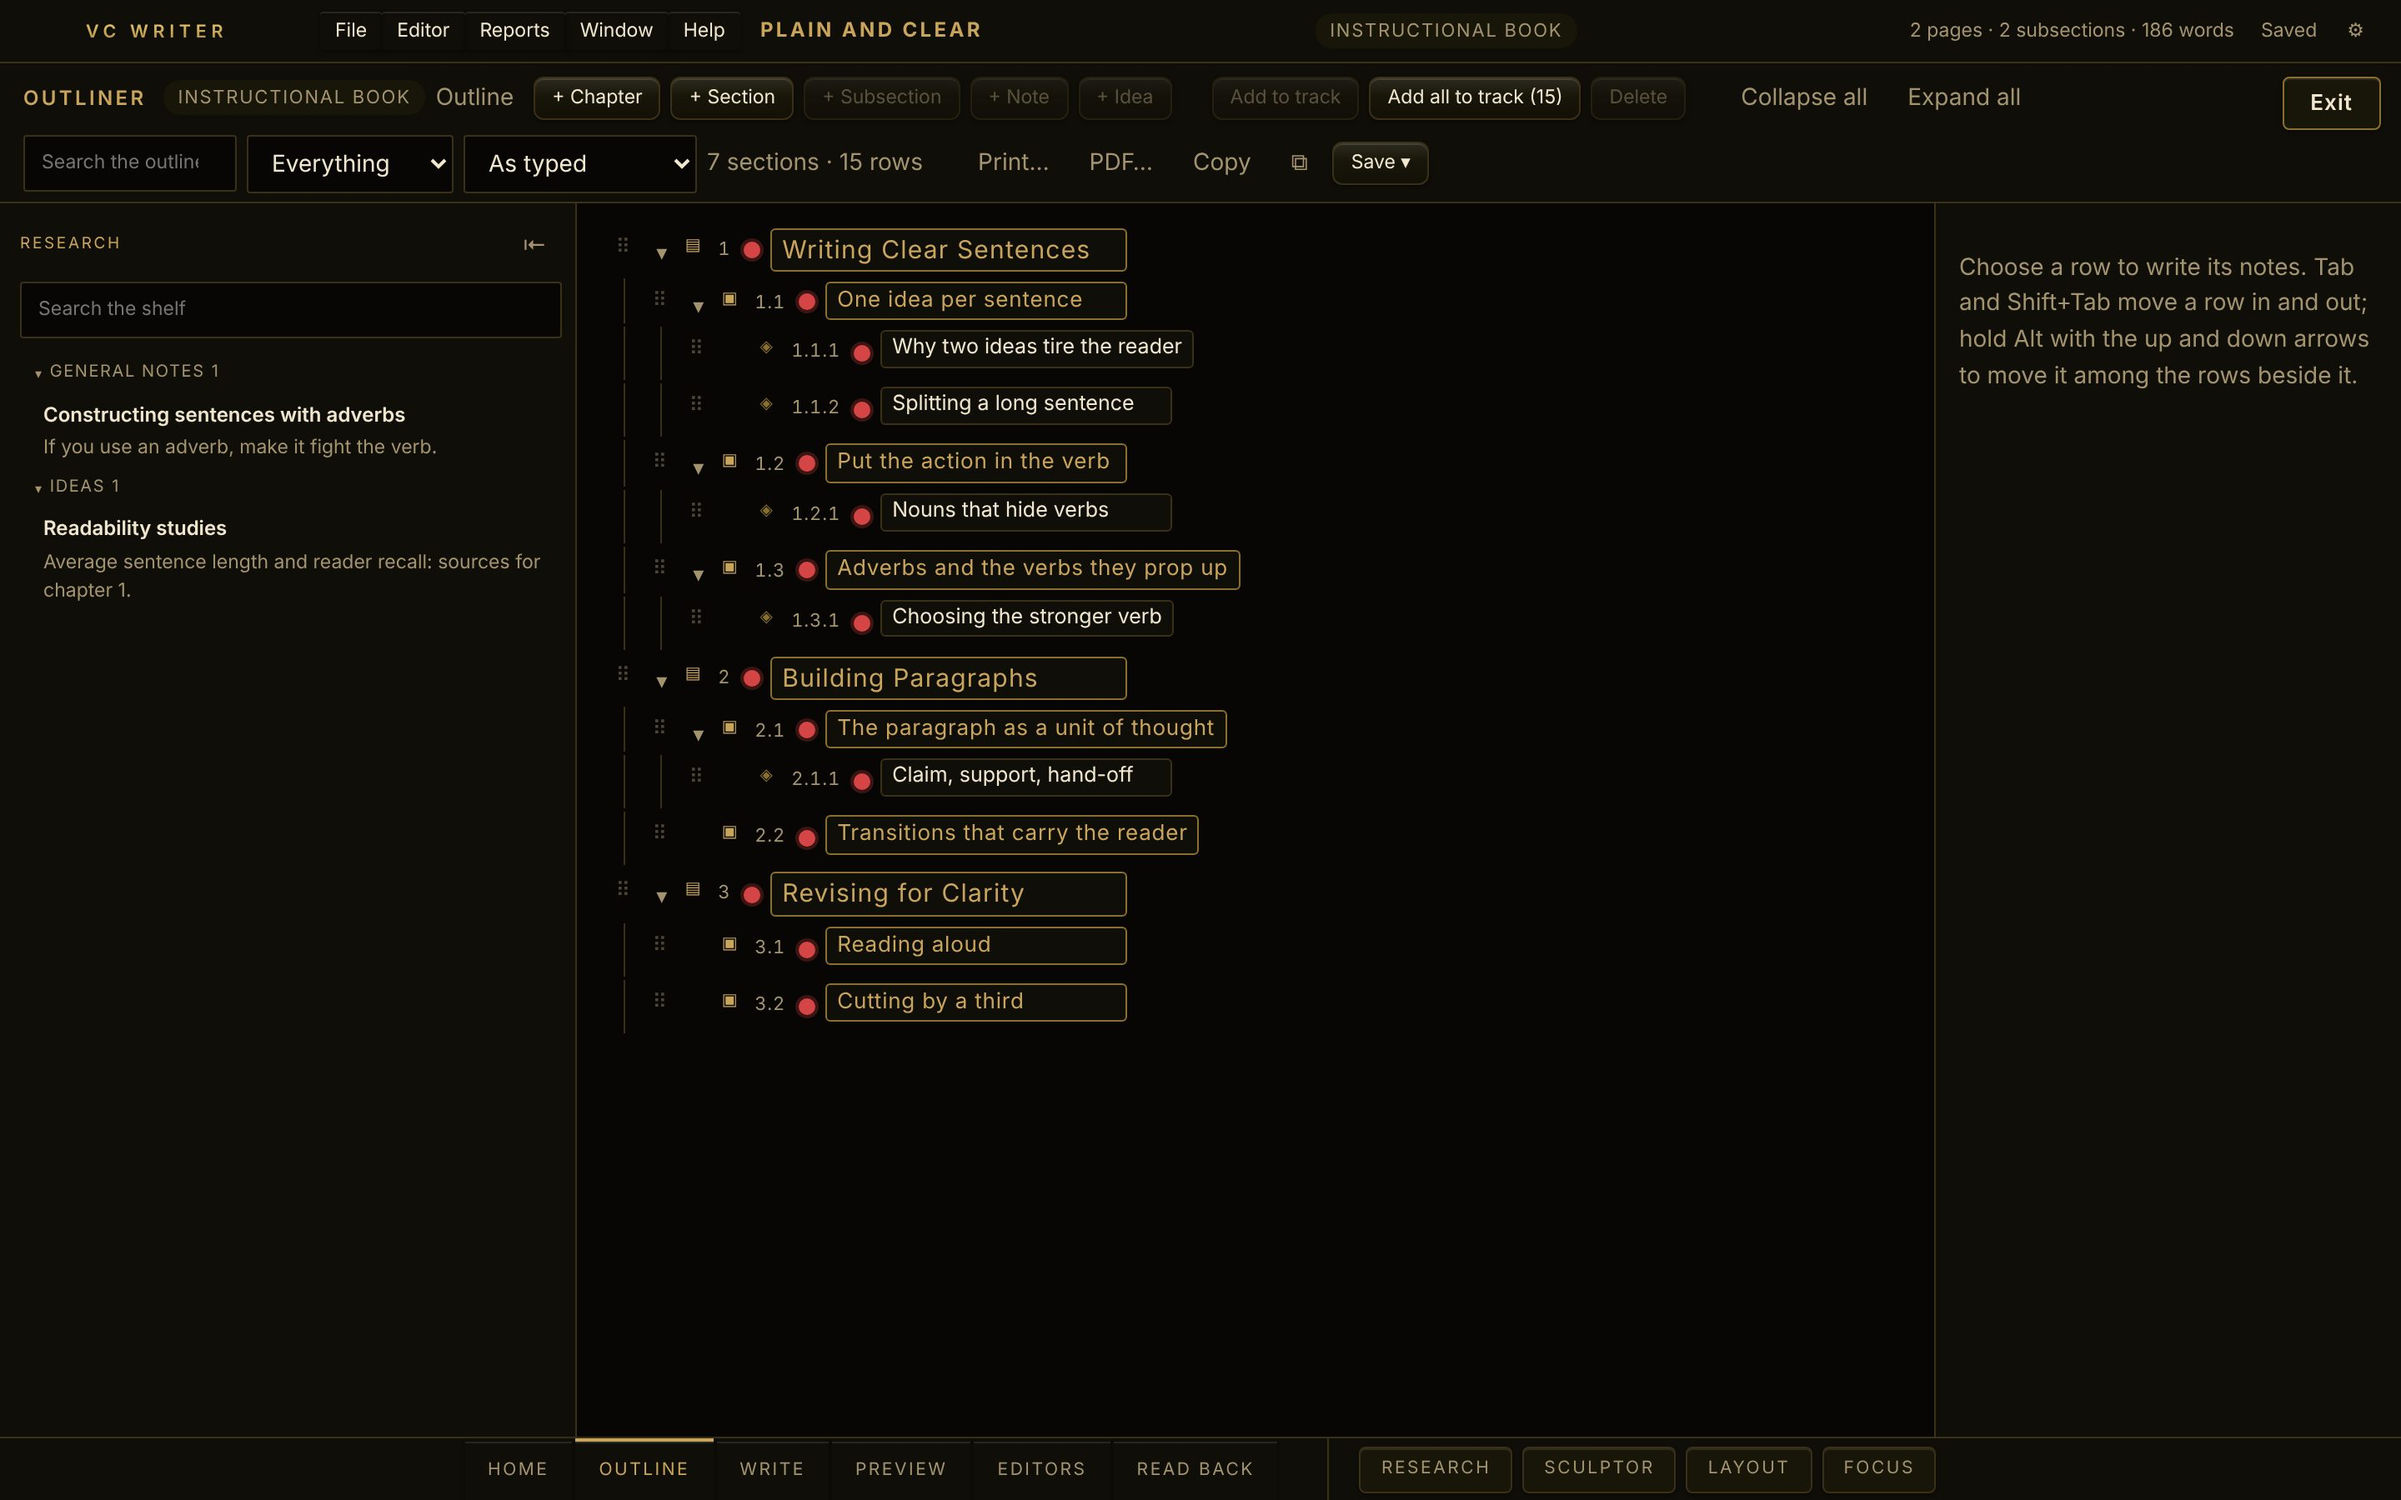
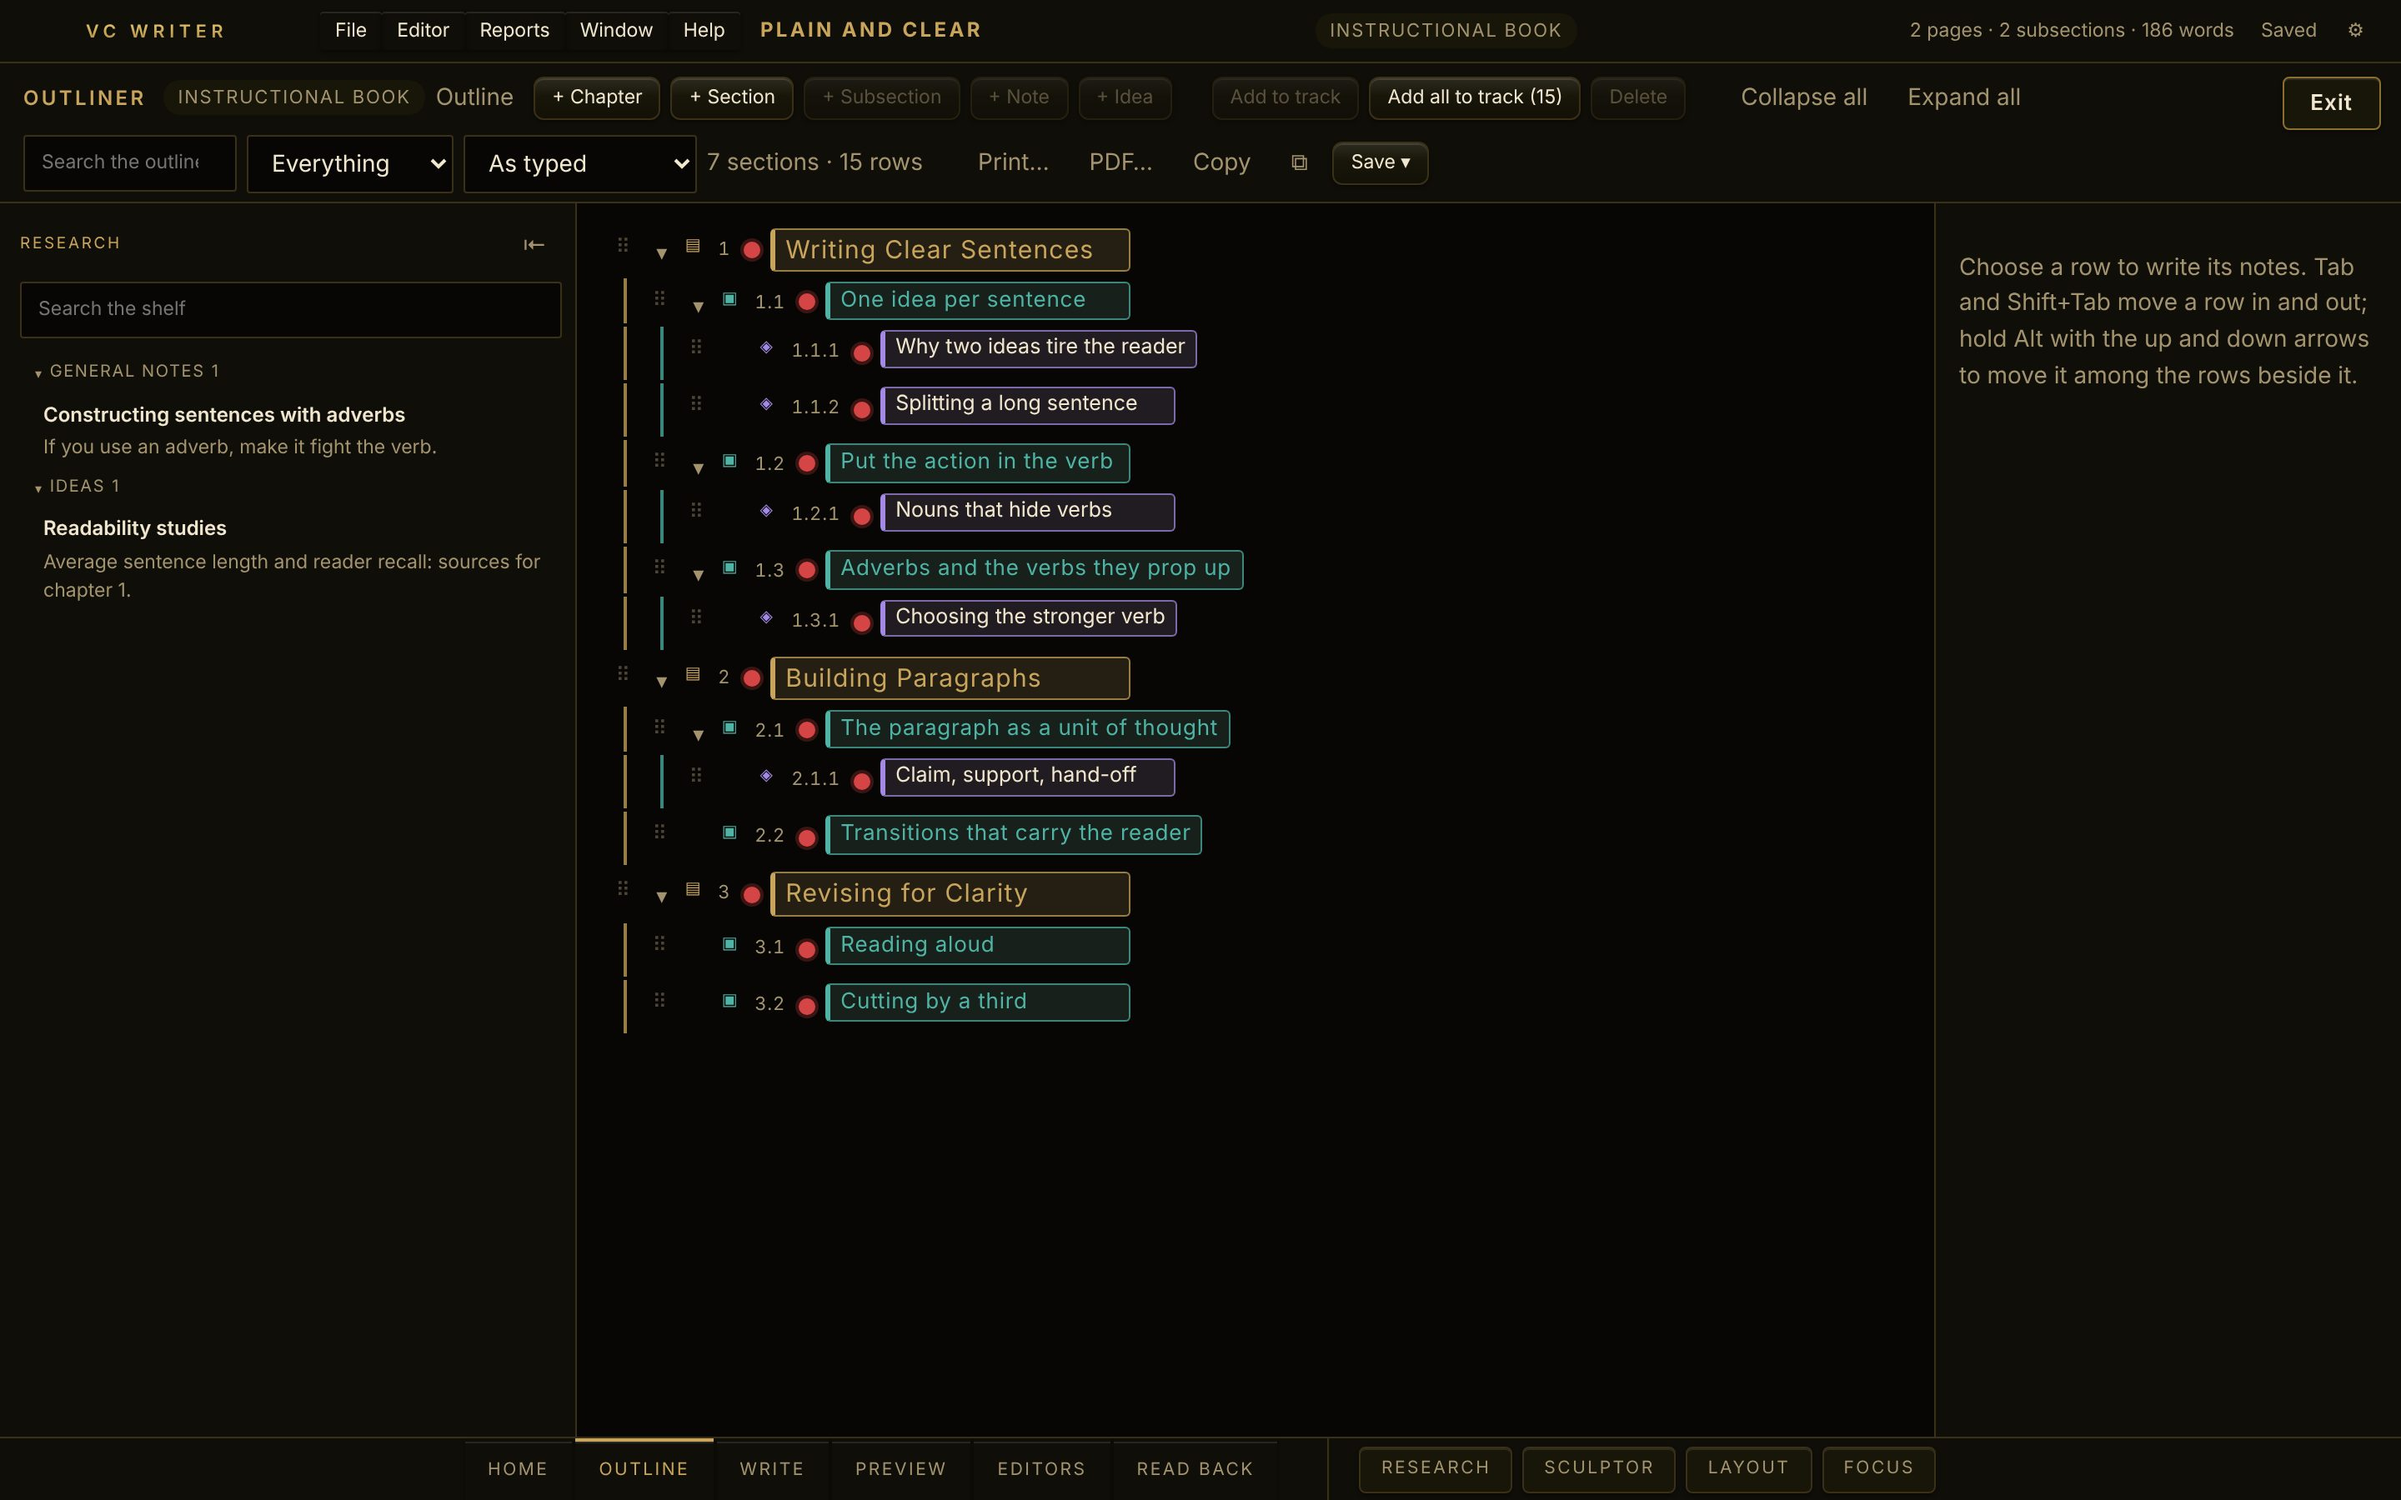
Outliner and Research outline: each tier its own colour, boxed and railed
Chapters gold, sections teal, subsections violet, notes grey, in the
Outliner and in Research's outline column. Every row's box takes its
tier's colour, and the guide at each level takes the colour of the row it
hangs from, so a chapter's rail runs down beside everything inside it.
Folding (per row, and Collapse all / Expand all) was already in both
places. The outline and research shots are retaken.

Claude-Session: https://claude.ai/code/session_01HufyX56kuynopRgv2CJ1Ch

Changed region(s): [[0.3125, 0.1556, 0.5312, 0.6844]]

diff --git a/apps/desktop/src/renderer/workspace.css b/apps/desktop/src/renderer/workspace.css
@@ -23218,3 +23218,114 @@ input.note-rewrite-title:focus { border-color: var(--gold); outline: none; }
 :is(.sheet-paper, .page-sheet).run-on .element-paragraph + .element-paragraph {
   margin-top: 0;
 }
+
+/* ------------------------------------------------------- outline tiers */
+
+/* Each tier of the outline its own colour, with a box around it (from Ken:
+   *the chapters a different colour than the sections — each tier has a
+   different colour, box around it, so you can easily see what is where*).
+   Chapters keep the program's gold; sections (a script's scenes) are teal;
+   subsections (beats) violet; notes, ideas and the rest a quiet grey. The
+   same four colours in the Outliner and in Research's outline column.
+
+   The guide at each level takes the colour of the row it hangs from, so a
+   chapter's rail runs down beside everything inside it: the row's box and
+   its rail together are the box around the group. */
+:root {
+  --tier-chapter: #c9a45c;
+  --tier-scene: #4fb3a5;
+  --tier-beat: #a48ae6;
+  --tier-other: #8a8070;
+}
+
+.outline-row { --tier: var(--tier-other); }
+.outline-row.kind-chapter { --tier: var(--tier-chapter); }
+.outline-row.kind-scene { --tier: var(--tier-scene); }
+.outline-row.kind-beat { --tier: var(--tier-beat); }
+
+.outline-row .outline-box,
+.outline-row.kind-chapter .outline-box,
+.outline-row.kind-scene .outline-box {
+  border-color: color-mix(in srgb, var(--tier) 70%, transparent);
+  border-left: 3px solid var(--tier);
+  background: color-mix(in srgb, var(--tier) 11%, var(--panel));
+}
+
+.outline-row:hover .outline-box {
+  background: color-mix(in srgb, var(--tier) 18%, var(--panel-2));
+}
+
+.outline-row.selected .outline-box {
+  border-color: var(--tier);
+  background: color-mix(in srgb, var(--tier) 20%, var(--panel-2));
+  box-shadow: 0 0 0 1px var(--tier);
+}
+
+.outline-row.kind-chapter .outline-ink,
+.outline-row.kind-chapter .outline-title,
+.outline-row.kind-chapter .outline-read,
+.outline-row.kind-chapter .outline-mark {
+  color: var(--tier-chapter);
+}
+
+.outline-row.kind-scene .outline-ink,
+.outline-row.kind-scene .outline-title,
+.outline-row.kind-scene .outline-read,
+.outline-row.kind-scene .outline-mark {
+  color: var(--tier-scene);
+}
+
+.outline-row.kind-beat .outline-mark {
+  color: var(--tier-beat);
+}
+
+.outline-guide.tier-chapter {
+  width: 2px;
+  background: color-mix(in srgb, var(--tier-chapter) 75%, transparent);
+}
+
+.outline-guide.tier-scene {
+  width: 2px;
+  background: color-mix(in srgb, var(--tier-scene) 75%, transparent);
+}
+
+.outline-guide.tier-beat {
+  width: 2px;
+  background: color-mix(in srgb, var(--tier-beat) 70%, transparent);
+}
+
+/* Research's outline column, the same tiers. */
+.research-outline-folder { --tier: var(--tier-other); }
+.research-outline-folder.kind-chapter { --tier: var(--tier-chapter); }
+.research-outline-folder.kind-section { --tier: var(--tier-scene); }
+.research-outline-folder.kind-subsection { --tier: var(--tier-beat); }
+
+.research-outline-folder > .research-outline-row {
+  box-shadow: inset 3px 0 0 var(--tier);
+  background: color-mix(in srgb, var(--tier) 10%, transparent);
+  border-color: color-mix(in srgb, var(--tier) 35%, transparent);
+  border-style: solid;
+}
+
+.research-outline-folder > .research-outline-row.droppable {
+  border-style: dashed;
+  border-color: color-mix(in srgb, var(--gold-deep) 55%, transparent);
+}
+
+.research-outline-folder > .research-outline-row.over {
+  border-color: var(--gold);
+  border-style: solid;
+  background: color-mix(in srgb, var(--gold) 14%, transparent);
+}
+
+.research-outline-folder > .research-outline-row .research-outline-mark,
+.kind-chapter > .research-outline-row .research-outline-title,
+.kind-section > .research-outline-row .research-outline-title {
+  color: var(--tier);
+}
+
+/* A folder's notes sit inside its tier, on a rail of its colour. */
+.research-outline-folder > .research-outline-notes {
+  border-left: 2px solid color-mix(in srgb, var(--tier) 55%, transparent);
+  margin-left: 14px;
+}

diff --git a/apps/desktop/src/renderer/components/OutlinerWindow.tsx b/apps/desktop/src/renderer/components/OutlinerWindow.tsx
@@ -376,6 +376,25 @@ export function OutlinerWindow({
   );
   const tally = useMemo(() => (outline ? outlineTally(outline) : null), [outline]);
   /**
+   * Each row's ancestors' kinds, outermost first, so the guide at each level
+   * can take the colour of the row it hangs from (from Ken: *each tier has a
+   * different colour, a box around it, so you can easily see what is where*).
+   */
+  const lineage = useMemo(() => {
+    const byId = new Map((outline?.items ?? []).map((one) => [one.id as string, one]));
+    const out = new Map<string, string[]>();
+    for (const one of outline?.items ?? []) {
+      const kinds: string[] = [];
+      let at = one.parentId ? byId.get(one.parentId as string) : undefined;
+      while (at) {
+        kinds.unshift(at.kind);
+        at = at.parentId ? byId.get(at.parentId as string) : undefined;
+      }
+      out.set(one.id as string, kinds);
+    }
+    return out;
+  }, [outline]);
+  /**
    * The decimal numbers down the outline (addendum 16 §15).
    *
    * Read from the tree every time, so indenting a row makes it 1.2.1 with
@@ -1078,6 +1097,7 @@ export function OutlinerWindow({
               format={file.project.format}
               key={row.item.id as string}
               row={row}
+              lineage={lineage.get(row.item.id as string) ?? []}
               number={numbers.get(row.item.id as string) ?? ''}
               title={rowTitle(file, row.item)}
               linked={row.item.source?.type === 'research_item'}
@@ -1688,6 +1708,7 @@ const chainOf = (outline: Outline, item: OutlineItem): OutlineItem[] => {
 function Row({
   format,
   row,
+  lineage = [],
   number,
   title,
   linked,
@@ -1717,6 +1738,8 @@ function Row({
   /** So a row names its own kind the way this format names it (§14). */
   format: ProjectFormat;
   row: OutlineRow;
+  /** The kinds of the rows above this one, outermost first, for the coloured guides. */
+  lineage?: ReadonlyArray<string>;
   /** `1.2` where this book numbers its divisions, `''` everywhere else. */
   number: string;
   /** Read through to the shelf where the row references research (§5). */
@@ -1827,7 +1850,12 @@ function Row({
     >
       {/* The guides: one per level, so the eye can run back up to the parent. */}
       {Array.from({ length: depth }, (unused, level) => (
-        <span key={level} className="outline-guide" style={{ left: `${8 + level * STEP + 7}px` }} aria-hidden="true" />
+        <span
+          key={level}
+          className={`outline-guide tier-${lineage[level] ?? 'none'}`}
+          style={{ left: `${8 + level * STEP + 7}px` }}
+          aria-hidden="true"
+        />
       ))}
 
       {/* A handle that always drags the row, even while its name is being

diff --git a/docs/spec/addendum-19-book-outliner.md b/docs/spec/addendum-19-book-outliner.md
@@ -836,3 +836,29 @@ The same code serves every format with a track and an outline. Tests in
 `outline-link.test.ts` cover the seed and promotion led by the outline.
 `outline-drop.test.ts` covers Add all with shared keys, a row whose section
 was deleted, and a screenplay transferred in order through the link.
+
+## Tiers in colour
+
+From Ken, 7 November: *in the outliner, I want the chapters to be a
+different color than the sections — each tier has a different color, box
+around it, so you can easily see what is where — and you need to be able
+to collapse that in the outliner, but also in the research section.*
+
+- **Four colours, one per tier**, used in both the Outliner and Research's
+  outline column:
+  - chapters: the program's gold
+  - sections (a script's scenes): teal
+  - subsections (beats): violet
+  - notes, ideas and the rest: a quiet grey
+
+  Each row's box takes its tier's colour: the border, a heavier left edge, a
+  tinted fill, and the title in that colour for chapters and sections.
+- **The box around the group.** The guide at each level takes the colour of
+  the row it hangs from, through a `lineage` of ancestor kinds worked out in
+  the Outliner. So a chapter's gold rail runs down beside everything inside
+  it, and a section's teal rail beside its subsections. In Research, a
+  folder's notes sit on a rail of its colour.
+- **Folding was already in both places**: the ▾ on every row with rows or
+  words under it, and Collapse all and Expand all at the top, in the Outliner
+  and in Research's outline column. Nothing about it changed except that the
+  colours make it easier to see what a fold hides.
